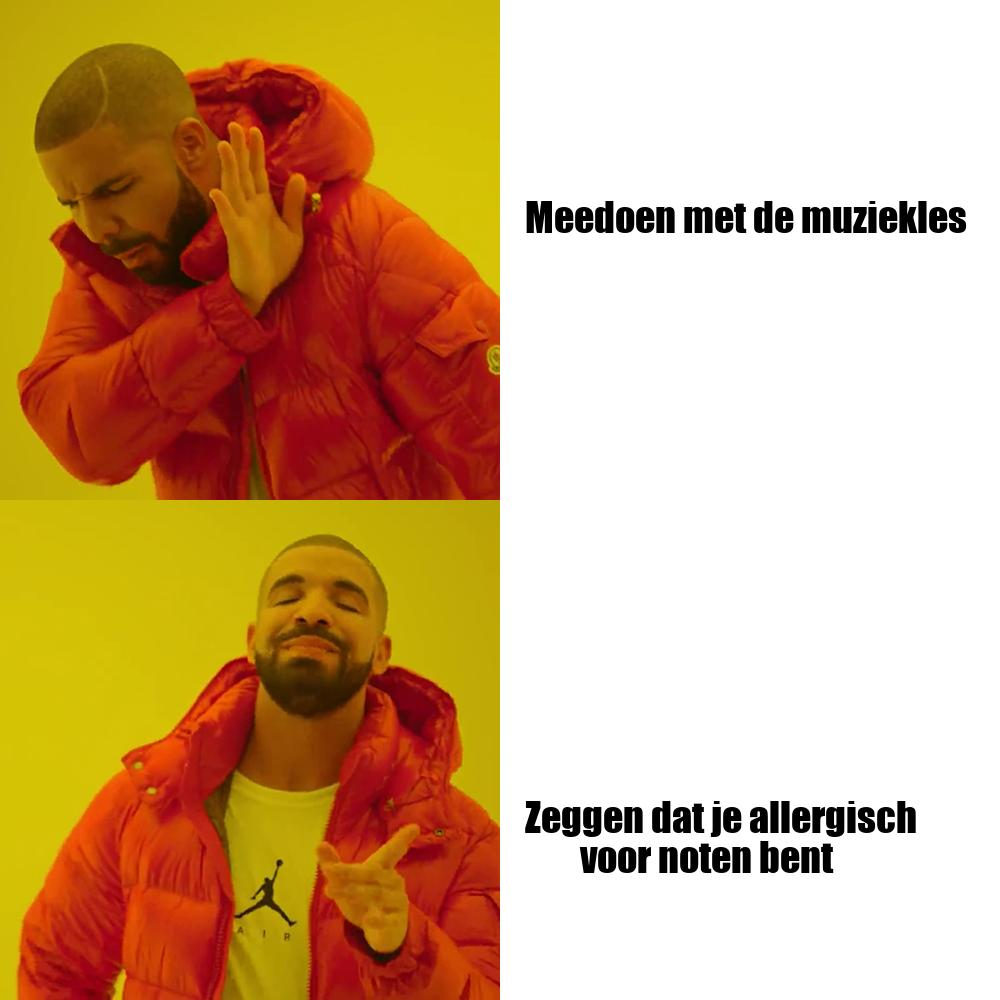
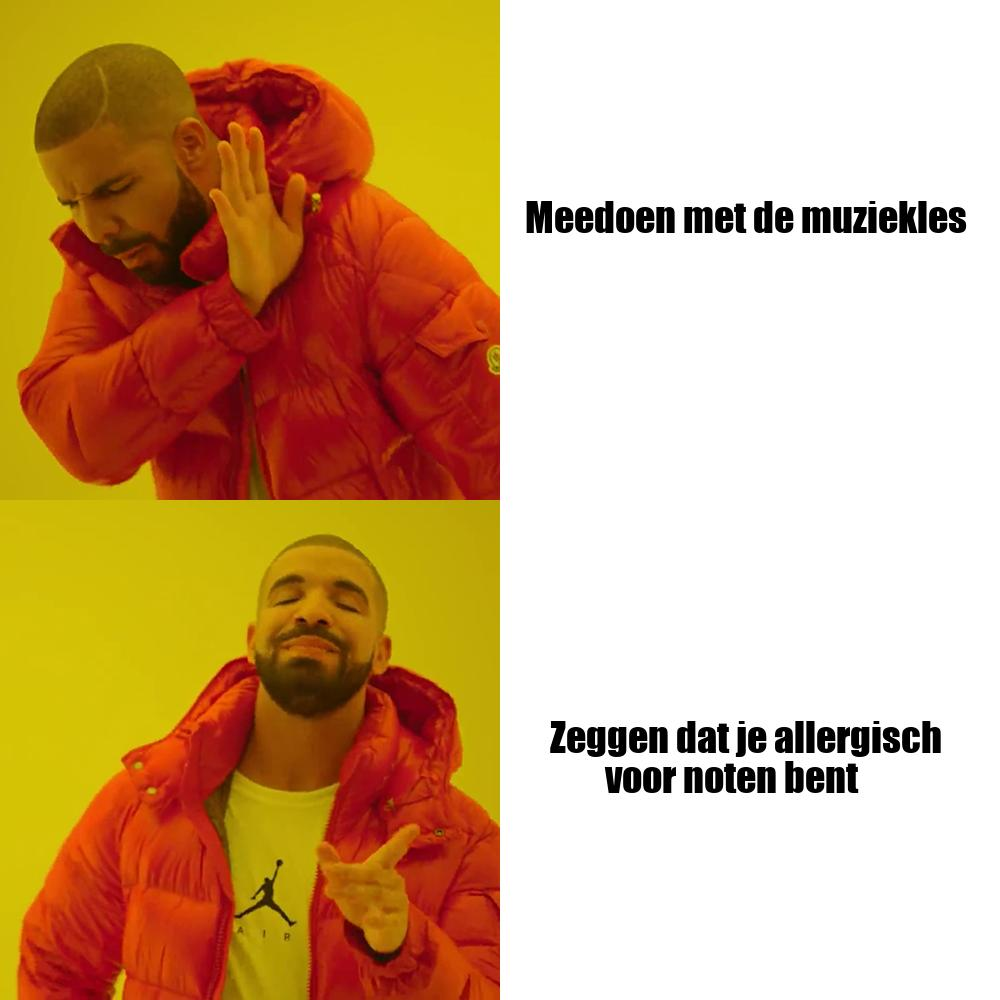
03-MemesGifs

Changed region(s): [[0.527, 0.713, 0.961, 0.899]]

diff --git a/03-MemesGifs/maak_meme.py b/03-MemesGifs/maak_meme.py
@@ -36,7 +36,7 @@ tekst = "Zeggen dat je allergisch"
 
 # ZET HIER DE CODE MET DE BEREKENINGEN 
 
-tekengebied.multiline_text((525,800), tekst, font=lettertype, fill=(0,0,0))
+tekengebied.multiline_text((550,720), tekst, font=lettertype, fill=(0,0,0))
 
 
 # Derde Tekst
@@ -52,7 +52,7 @@ tekst = "voor noten bent "
 
 # ZET HIER DE CODE MET DE BEREKENINGEN 
 
-tekengebied.multiline_text((580,840), tekst, font=lettertype, fill=(0,0,0))
+tekengebied.multiline_text((605,760), tekst, font=lettertype, fill=(0,0,0))
 
 # Het resultaat tonen
 achtergrond.show()
